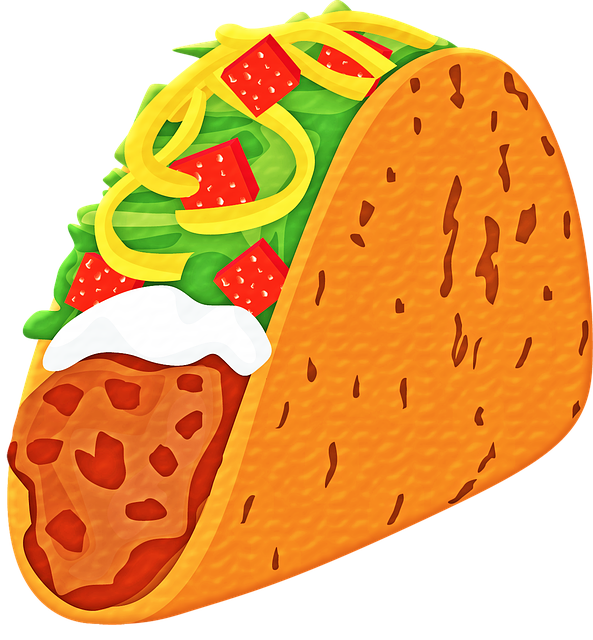
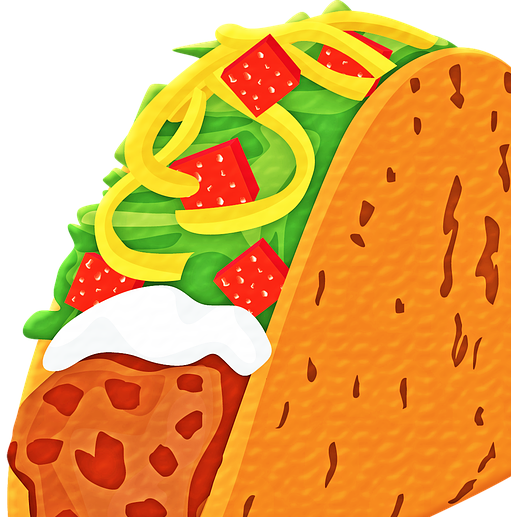
Reduced image size.  In design template added th:action and id per online code example.  App now working again, w/ security etc.

diff --git a/taco-cloud/src/main/resources/templates/design.html b/taco-cloud/src/main/resources/templates/design.html
@@ -11,14 +11,14 @@
 
 <body>
   <h1>Design Your Taco</h1>
+  <h2>Feelin' hungry, <span th:text ="${user.fullname}">NAME</span>?</h2>
   
   <img th:src="@{/images/TacoCloud.png}" />
-  
   <form method="POST" th:action="@{/logout}">
   	<input type="submit" value="Logout" />
   </form>
   
-  <form method="POST" th:object="${taco}">
+  <form method="POST" th:object="${taco}" th:action="@{/design}" id="tacoForm">
     <span class="validationError" th:if="@{#fields.hasErrors('ingredients')}" th:errors="*{ingredients}">Ingredient Error</span>
 
       <div class="grid">
